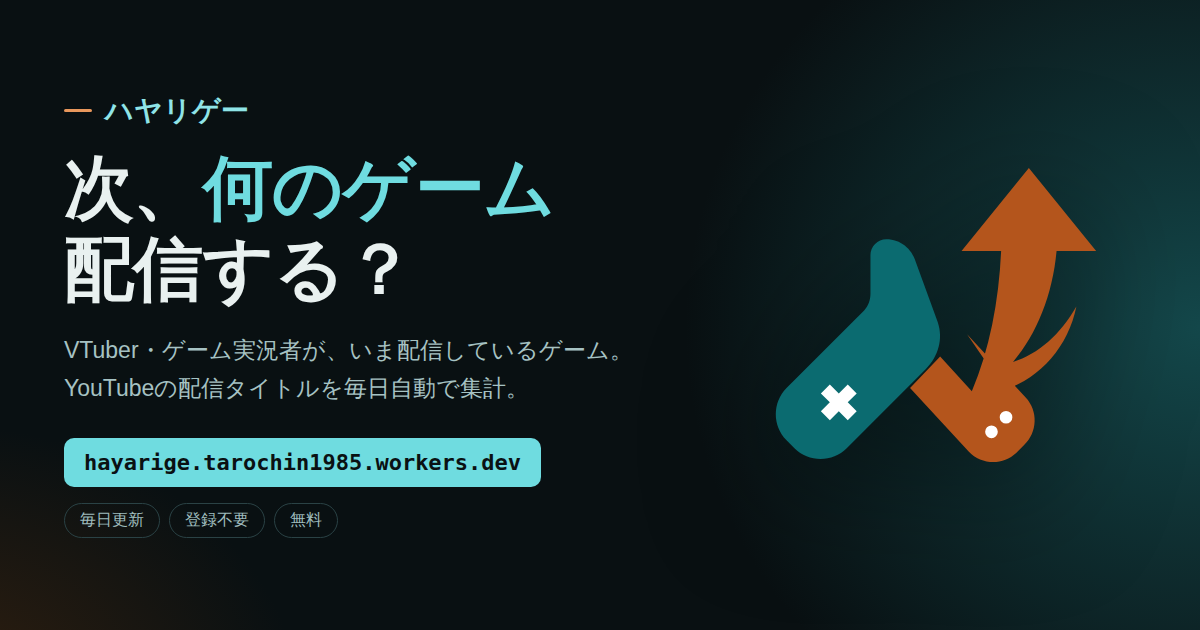
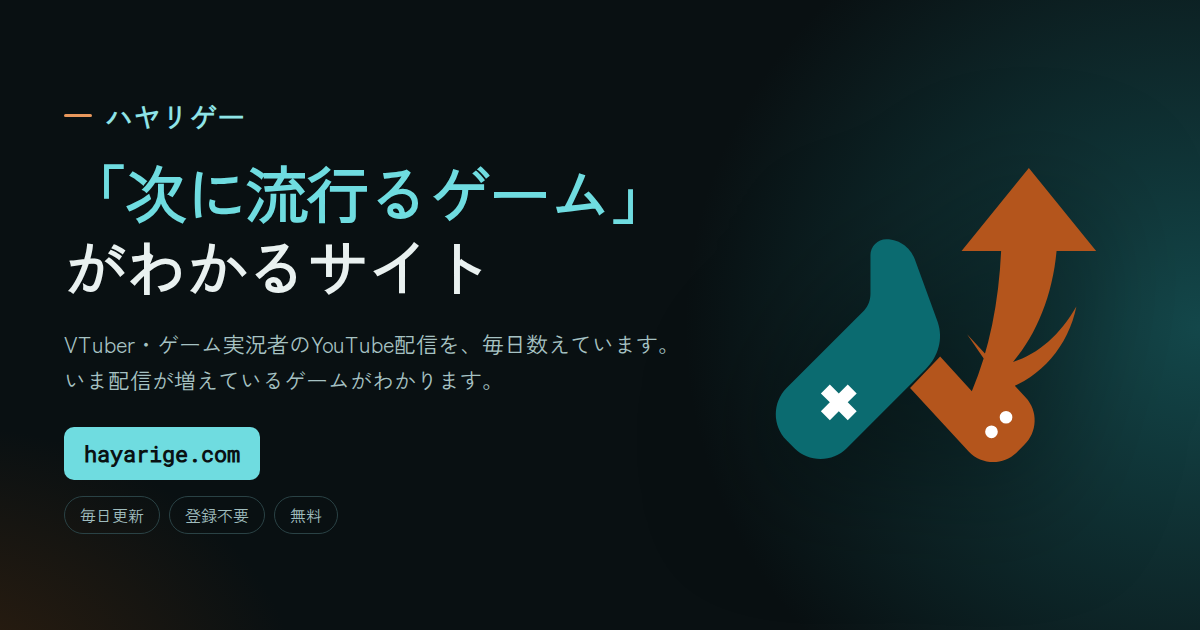
Add files via upload

diff --git a/scripts/make_ogp.py b/scripts/make_ogp.py
@@ -31,9 +31,11 @@ body{width:1200px;height:630px;overflow:hidden;color:#E9F1F0;
 .L{grid-column:1;display:flex;flex-direction:column;justify-content:center}
 .brand{display:flex;align-items:center;gap:13px;font-size:28px;font-weight:900;color:#8FE4E7}
 .brand i{display:block;width:28px;height:3px;background:#E8975C;border-radius:2px}
-h1{font-size:70px;font-weight:900;line-height:1.16;margin-top:18px;letter-spacing:-.01em}
+h1{font-size:62px;font-weight:900;line-height:1.2;margin-top:18px;letter-spacing:-.02em;
+  white-space:nowrap}
 h1 em{font-style:normal;color:#6FDCE0}
-.sub{margin-top:22px;font-size:23px;font-weight:500;color:#A6C2C3;line-height:1.65}
+.sub{margin-top:22px;font-size:22px;font-weight:500;color:#A6C2C3;line-height:1.65;
+  white-space:nowrap}
 .url{align-self:flex-start;margin-top:30px;font-family:"Roboto Mono",monospace;font-size:22px;
   font-weight:700;color:#0A1113;background:#6FDCE0;border-radius:10px;padding:12px 20px;white-space:nowrap}
 .chips{display:flex;gap:9px;margin-top:16px}
@@ -41,12 +43,12 @@ h1 em{font-style:normal;color:#6FDCE0}
 """
 
 PAGE = """<!doctype html><html lang="ja"><head><meta charset="utf-8">
-<link rel="stylesheet" href="https://fonts.googleapis.com/css2?family=Zen+Kaku+Gothic+New:wght@500;900&family=Noto+Sans+JP:wght@500;900&family=Roboto+Mono:wght@700&display=swap">
+<link rel="stylesheet" href="%(fontlink)s">
 <style>%(css)s</style></head><body>
   <div class="L">
     <div class="brand"><i></i>ハヤリゲー</div>
-    <h1>次、<em>何のゲーム</em><br>配信する？</h1>
-    <div class="sub">VTuber・ゲーム実況者が、いま配信しているゲーム。<br>YouTubeの配信タイトルを毎日自動で集計。</div>
+    <h1><em>「次に流行るゲーム」</em><br>がわかるサイト</h1>
+    <div class="sub">VTuber・ゲーム実況者のYouTube配信を、毎日数えています。<br>いま配信が増えているゲームがわかります。</div>
     <span class="url">%(url)s</span>
     <div class="chips"><span>毎日更新</span><span>登録不要</span><span>無料</span></div>
   </div>
@@ -56,12 +58,20 @@ PAGE = """<!doctype html><html lang="ja"><head><meta charset="utf-8">
 
 
 def main():
-    url = "hayarige.tarochin1985.workers.dev"
+    from common import DATA, read_json
+    url = ((read_json(DATA / "site_config.json", {}) or {}).get("site_url") or "")
+    url = url.replace("https://", "").replace("http://", "").rstrip("/") or "hayarige.com"
     for a in sys.argv[1:]:
         if a.startswith("--url="):
             url = a.split("=", 1)[1]
     html = SITE / "_ogp.html"
-    html.write_text(PAGE % {"css": CSS, "url": url}, encoding="utf-8")
+    # 書体はカード画像と同じ仕組みで解決する。Google Fontsが届かない環境でも
+    # 同じ書体で出るように、make_card.py の仕掛けを使い回す。
+    from make_card import font_link
+    fonts = ("Zen+Kaku+Gothic+New:wght@500;900&family=Noto+Sans+JP:wght@500;900"
+             "&family=Roboto+Mono:wght@700")
+    html.write_text(PAGE % {"css": CSS, "url": url, "fontlink": font_link(fonts)},
+                    encoding="utf-8")
     from playwright.sync_api import sync_playwright
     out = SITE / "ogp.png"
     with sync_playwright() as p:

diff --git a/scripts/build_site.py b/scripts/build_site.py
@@ -1415,11 +1415,14 @@ def main():
             '<?xml version="1.0" encoding="UTF-8"?>'
             '<urlset xmlns="http://www.sitemaps.org/schemas/sitemap/0.9">'
             + body + "</urlset>", encoding="utf-8")
+        # robots.txt の Sitemap 行は、毎回いまの住所で書き直す。
+        # 「無いときだけ足す」にしていたため、独自ドメインに移したあとも
+        # 古いURLが残っていた（2026-09-21に気づいた）。
         rb = SITE / "robots.txt"
         txt = rb.read_text(encoding="utf-8") if rb.exists() else "User-agent: *\nAllow: /\n"
-        if "Sitemap:" not in txt:
-            rb.write_text(txt.rstrip() + f"\n\nSitemap: {site_url}/sitemap.xml\n",
-                          encoding="utf-8")
+        keep = [ln for ln in txt.splitlines() if not ln.startswith("Sitemap:")]
+        rb.write_text("\n".join(keep).rstrip()
+                      + f"\n\nSitemap: {site_url}/sitemap.xml\n", encoding="utf-8")
         log(f"sitemap.xml を書き出しました（{len(urls)} ページ）")
 
     # YouTubeの規約で、配信タイトルなどを持てるのは30日まで

diff --git a/scripts/make_card.py b/scripts/make_card.py
@@ -21,9 +21,16 @@ import re
 import sys
 from pathlib import Path
 
-from common import SITE, log, read_json
+from common import DATA, SITE, log, read_json
 
-SITE_URL = "hayarige.tarochin1985.workers.dev"
+
+def site_url():
+    """カードの右上に出す住所。data/site_config.json から読む。
+    ここを決め打ちにしていたせいで、独自ドメインに移したとき
+    画像だけ古いURLのままになりかけた（2026-09-21）。"""
+    u = (read_json(DATA / "site_config.json", {}) or {}).get("site_url") or ""
+    return u.replace("https://", "").replace("http://", "").rstrip("/") \
+        or "hayarige.com"
 TOP_N = 10
 
 # ---------------------------------------------------------------- 見た目
@@ -499,7 +506,7 @@ def build(data, theme="dark"):
         "lead": lead_html(data.get("column"), data.get("ranking") or []),
         "rows": rows_html(data.get("ranking") or []),
         "hot": hot_html(data),
-        "note": note, "url": SITE_URL, "fit": FIT,
+        "note": note, "url": site_url(), "fit": FIT,
     }
 
 def main():
